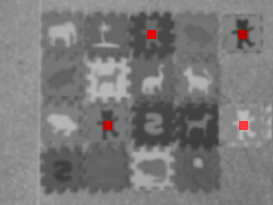
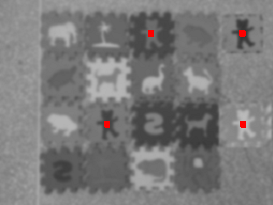
Conclusão tarefa5

diff --git a/tarefa5/tarefa5.cpp b/tarefa5/tarefa5.cpp
@@ -1,0 +1,33 @@
+// tarefa5.cpp
+#include <cekeikon.h>
+int main()
+{
+    Mat_<FLT> a;
+    le(a, "a.png"); //Matriz a representa a figura de ursinhos
+    Mat_<FLT> q;
+    le(q, "q.png");  //Matriz q representa o ursinho (template)
+
+    Mat_<FLT> q_inv = q.clone();
+    for (int l_q = 0; l_q < q.rows; l_q++)
+        for (int c_q = 0; c_q < q.cols; c_q++)
+                q_inv(l_q,c_q) =  1.0 - q(l_q,c_q);
+                
+    imp(q_inv, "q_inv.png");
+
+    Mat_<FLT> corr_p;
+    corr_p = matchTemplateSame(a, q, CV_TM_CCOEFF_NORMED);
+    imp(corr_p, "correlao_p.png");
+
+    Mat_<FLT> corr_p_inv;
+    corr_p_inv = matchTemplateSame(a, q_inv, CV_TM_CCOEFF_NORMED);
+    imp(corr_p_inv, "correlao_p_inv.png");
+
+    Mat_<COR> p;
+    converte(a, p);
+    for (int l = 0; l < a.rows; l++)
+        for (int c = 0; c < a.cols; c++)
+            if (corr_p(l, c) >= 1.0 - 0.1 || corr_p_inv(l, c) >= 1.0 - 0.1) //foi utilizada uma tolerância Epsilon = 0.1
+                //p(l, c) = COR(0, 0, 255);
+                rectangle(p, Point(c - 2, l - 2), Point(c + 2, l + 2), Scalar(0, 0, 255), -1);
+    imp(p, "p.png");
+}
